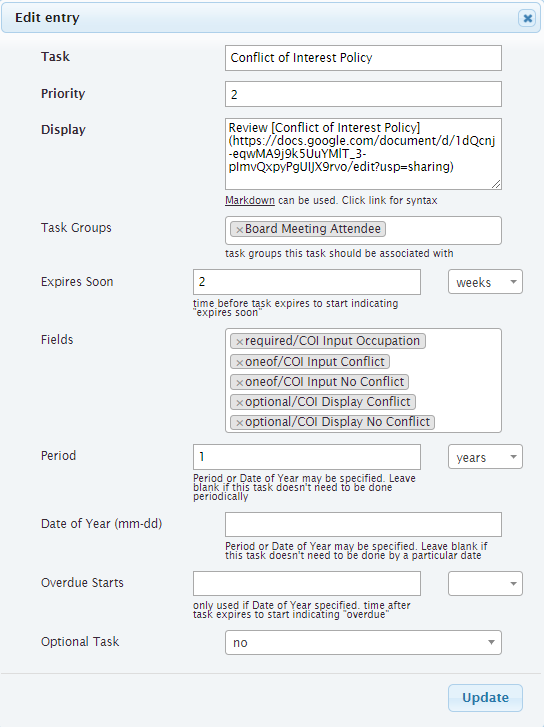
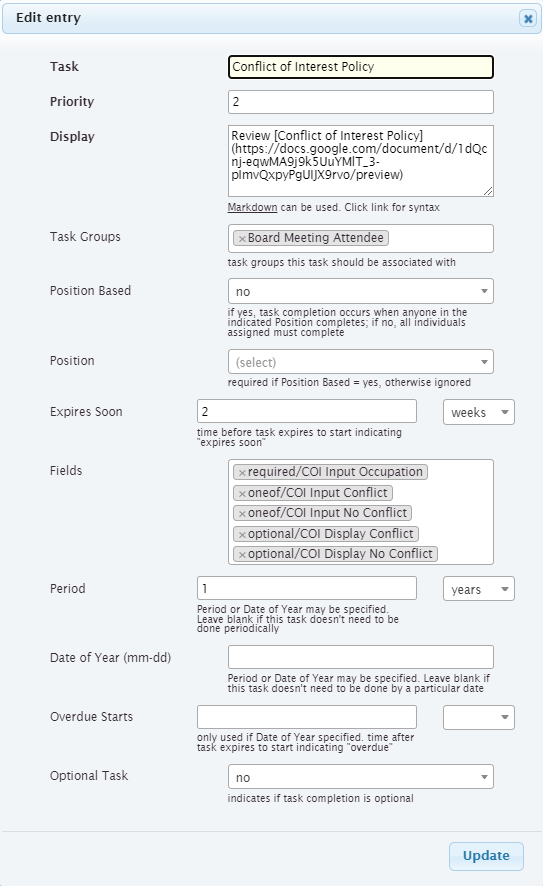
tasks can now be assigned by position (#383)

diff --git a/members/templates/admin/tasks.view.editorform.html b/members/templates/admin/tasks.view.editorform.html
@@ -3,6 +3,8 @@
     <div data-editor-template="priority"></div>
     <div data-editor-template="description"></div>
     <div data-editor-template="taskgroups.id"></div>
+    <div data-editor-template="isbyposition"></div>
+    <div data-editor-template="position.id"></div>
     <div class="row">
         <div style="flex:5;" data-editor-template="expirysoon"></div>
         <div style="flex:1;" data-editor-template="expirysoon_units"></div>

diff --git a/members/views/admin/leadership_tasks_admin.py b/members/views/admin/leadership_tasks_admin.py
@@ -87,6 +87,18 @@ class TaskView(AssociationCrudApi):
             self._fielderrors = [{'name': 'fields.id', 'get_status': '{} fields were found in more than one category'.format(dupnames)}]
             raise ParameterError
 
+        # disable position if not isbyposition
+        if not thistask.isbyposition:
+            thistask.position = None
+            self._responsedata[0]['position']['id'] = None
+            self._responsedata[0]['position']['position'] = None
+        
+        # update any affected taskcompletions
+        # this allows the isbyposition or position to change with the completed tasks updated accordingly
+        taskcompletions = TaskCompletion.query.filter_by(task=thistask).filter(TaskCompletion.position != thistask.position).all()
+        for taskcompletion in taskcompletions:
+            taskcompletion.position = thistask.position
+        
 def task_validate(action, formdata):
     results = []
 
@@ -107,14 +119,18 @@ def task_validate(action, formdata):
         if not formdata['expirysoon']:
             results.append({'name': 'expirysoon', 'status': 'please supply'})
 
+    # for task completion by position, a position needs to be supplied
+    if formdata['isbyposition'] == 'yes' and not formdata['position']['id']:
+        results.append({'name': 'position.id', 'status': 'please supply'})
+        
     return results
 
-task_dbattrs = 'id,interest_id,task,description,priority,expirysoon,expirysoon_units,period,period_units,dateofyear,expirystarts,expirystarts_units,isoptional,taskgroups,fields'.split(',')
-task_formfields = 'rowid,interest_id,task,description,priority,expirysoon,expirysoon_units,period,period_units,dateofyear,expirystarts,expirystarts_units,isoptional,taskgroups,fields'.split(',')
+task_dbattrs = 'id,interest_id,task,description,isbyposition,position,priority,expirysoon,expirysoon_units,period,period_units,dateofyear,expirystarts,expirystarts_units,isoptional,taskgroups,fields'.split(',')
+task_formfields = 'rowid,interest_id,task,description,isbyposition,position,priority,expirysoon,expirysoon_units,period,period_units,dateofyear,expirystarts,expirystarts_units,isoptional,taskgroups,fields'.split(',')
 task_dbmapping = dict(zip(task_dbattrs, task_formfields))
 task_formmapping = dict(zip(task_formfields, task_dbattrs))
 # only take mm-dd portion of date into database
-# TODO: uncommend these when #51 fixed
+# TODO: uncomment these when #51 fixed
 # task_dbmapping['dateofyear'] = lambda formrow: formrow['dateofyear'][-5:] if formrow['dateofyear'] else None
 # task_formmapping['dateofyear'] = lambda dbrow: '{}-{}'.format(date.today().year, dbrow.dateofyear) if dbrow.dateofyear else None
 
@@ -157,8 +173,29 @@ task_view = TaskView(
                              'relationship': {'fieldmodel': TaskGroup, 'labelfield': 'taskgroup',
                                               'formfield': 'taskgroups',
                                               'dbfield': 'taskgroups', 'uselist': True,
+                                              'searchbox': True,
                                               'queryparams': localinterest_query_params,
                                               }}
+                         },
+                        {'data': 'isbyposition', 'name': 'isbyposition', 'label': 'Position Based',
+                         'class': 'TextCenter',
+                         '_treatment': {'boolean': {'formfield': 'isbyposition', 'dbfield': 'isbyposition'}},
+                         'ed': {'def': 'no'},
+                         'fieldInfo': 'if yes, task completion occurs when anyone in the indicated Position completes; if no, all individuals assigned must complete',
+                         },
+                        {'data': 'position', 'name': 'position', 'label': 'Position',
+                         '_treatment': {
+                             'relationship': 
+                                {
+                                    'fieldmodel': Position, 
+                                    'labelfield': 'position', 
+                                    'formfield': 'position',
+                                    'dbfield': 'position', 
+                                    'uselist': False,
+                                    'searchbox': True,
+                                    'queryparams': localinterest_query_params,
+                                }},
+                         'fieldInfo': 'required if Position Based = yes, otherwise ignored',
                          },
                         {'data': 'expirysoon', 'name': 'expirysoon', 'label': 'Expires Soon',
                          'class': 'TextCenter',
@@ -227,6 +264,7 @@ task_view = TaskView(
                          'class': 'TextCenter',
                          '_treatment': {'boolean': {'formfield': 'isoptional', 'dbfield': 'isoptional'}},
                          'ed': {'def': 'no'},
+                         'fieldInfo': 'indicates if task completion is optional',
                          },
                     ],
                     servercolumns = None,  # not server side

diff --git a/members/views/admin/viewhelpers.py b/members/views/admin/viewhelpers.py
@@ -76,8 +76,13 @@ class LocalUserPicker(DteDbRelationship):
 
 
 def get_task_completion(task, user):
+    # if completion is by position and this user is in the task's position, return the latest task completion for this position
     localuser = user2localuser(user)
-    return TaskCompletion.query.filter_by(task=task, user=localuser).order_by(TaskCompletion.update_time.desc()).first()
+    if task.isbyposition:
+        return TaskCompletion.query.filter_by(task=task, position=task.position).order_by(TaskCompletion.update_time.desc()).first()
+    # if by member, return the latest task completion for the indicated user
+    else:
+        return TaskCompletion.query.filter_by(task=task, user=localuser).order_by(TaskCompletion.update_time.desc()).first()
 
 def localuser2user(localuser):
     if type(localuser) == int:
@@ -204,7 +209,6 @@ def _get_status(task, taskcompletion):
             thisstatus = STATUS_DONE
         thisexpires = STATUS_NO_EXPIRATION
 
-
     # task is managed periodically
     elif task.period:
         if not task.period and taskcompletion:
@@ -260,13 +264,23 @@ def get_expires(task, user):
 def create_taskcompletion(task, localuser, localinterest, formdata):
     rightnow = datetime.now()
     taskcompletion = TaskCompletion(
-        user=localuser,
         interest=localinterest,
         completion=rightnow,
         task=task,
         update_time=rightnow,
         updated_by=localuser.id,
     )
+
+    # normal case is task is completed for the individual, so record the individual's completion
+    taskcompletion.user = localuser
+    
+    # if it's by position, record the position's completion
+    # if user doesn't have this position, then skip recording the position as this is for the individual
+    #  >> this is an odd case, not sure if it's needed, actually, but may be some reason for this case
+    # if task.isbyposition and task.position in localuser.positions:
+    if task.isbyposition:
+        taskcompletion.position = task.position
+    
     db.session.add(taskcompletion)
     db.session.flush()
 

diff --git a/members/model.py b/members/model.py
@@ -157,6 +157,9 @@ class Task(Base):
     dateofyear          = Column(String(DOY_LEN))   # mm-dd
     expirystarts        = Column(Integer)          # only used if dateofyear specified
     expirystarts_units  = Column(Enum(*date_unit_all), nullable=True)
+    isbyposition        = Column(Boolean)
+    position_id         = Column(Integer, ForeignKey('position.id'))
+    position            = relationship('Position', back_populates='positiontasks')
     isoptional          = Column(Boolean)
     fields              = relationship('TaskTaskField',
                                        back_populates='task')
@@ -275,6 +278,7 @@ class Position(Base):
     agendaheading_id    = Column(Integer, ForeignKey('agendaheading.id'))
     agendaheading       = relationship('AgendaHeading', backref=backref('positions'))
     userpositions       = relationship('UserPosition', back_populates='position')
+    positiontasks       = relationship('Task', back_populates='position')
     # users               = relationship('LocalUser',
     #                                    secondary=userposition_table,
     #                                    backref=backref('positions'))
@@ -305,6 +309,8 @@ class TaskCompletion(Base):
     interest            = relationship('LocalInterest', backref=backref('taskcompletions'))
     user_id             = Column(Integer, ForeignKey('localuser.id'))
     user                = relationship('LocalUser', backref=backref('taskscompleted'))
+    position_id         = Column(Integer, ForeignKey('position.id'))
+    position            = relationship('Position', backref=backref('taskscompleted'))
     task_id             = Column(Integer, ForeignKey('task.id'))
     task                = relationship('Task', backref=backref('taskcompletions'))
     completion          = Column(DateTime)

diff --git a/migrations/versions/2b0acf03881a_task_completion_by_position_383.py b/migrations/versions/2b0acf03881a_task_completion_by_position_383.py
@@ -1,0 +1,60 @@
+"""task completion by position (#383)
+
+Revision ID: 2b0acf03881a
+Revises: cacdee34a411
+Create Date: 2022-06-07 14:55:51.486478
+
+"""
+from alembic import op
+import sqlalchemy as sa
+
+
+# revision identifiers, used by Alembic.
+revision = '2b0acf03881a'
+down_revision = 'cacdee34a411'
+branch_labels = None
+depends_on = None
+
+
+def upgrade(engine_name):
+    globals()["upgrade_%s" % engine_name]()
+
+
+def downgrade(engine_name):
+    globals()["downgrade_%s" % engine_name]()
+
+
+
+
+
+def upgrade_():
+    # ### commands auto generated by Alembic - please adjust! ###
+    op.add_column('task', sa.Column('isbyposition', sa.Boolean(), nullable=True))
+    op.add_column('task', sa.Column('position_id', sa.Integer(), nullable=True))
+    op.create_foreign_key(None, 'task', 'position', ['position_id'], ['id'])
+    op.add_column('taskcompletion', sa.Column('position_id', sa.Integer(), nullable=True))
+    op.create_foreign_key(None, 'taskcompletion', 'position', ['position_id'], ['id'])
+    # ### end Alembic commands ###
+
+
+def downgrade_():
+    # ### commands auto generated by Alembic - please adjust! ###
+    op.drop_constraint(None, 'taskcompletion', type_='foreignkey')
+    op.drop_column('taskcompletion', 'position_id')
+    op.drop_constraint(None, 'task', type_='foreignkey')
+    op.drop_column('task', 'position_id')
+    op.drop_column('task', 'isbyposition')
+    # ### end Alembic commands ###
+
+
+def upgrade_users():
+    # ### commands auto generated by Alembic - please adjust! ###
+    pass
+    # ### end Alembic commands ###
+
+
+def downgrade_users():
+    # ### commands auto generated by Alembic - please adjust! ###
+    pass
+    # ### end Alembic commands ###
+

diff --git a/members/version.py b/members/version.py
@@ -1,5 +1,5 @@
 # See https://packaging.python.org/guides/distributing-packages-using-setuptools/#semantic-versioning-preferred
-__version__ = '1.3.4.dev1'
+__version__ = '1.4.0.dev1'
 __docversion__ = __version__
 # uncomment for development
 # __docversion__ = 'latest'

diff --git a/docs/leadership-task-admin-guide.rst b/docs/leadership-task-admin-guide.rst
@@ -83,6 +83,23 @@ Task Configuration Guide
 
 The :ref:`Tasks view` is used to configure :term:`task` behavior.
 
+The :term:`task` display :ref:`Task Checklist view` is controlled by the attributes
+
+* **Priority** - controls the order of task display, all other things being equal
+* **Task Groups** - :term:`Task Groups <task group>` form a group of tasks which can be assigned to :term:`positions <position>` via :ref:`Positions view`
+
+:term:`Task <task>` :term:`status` can be for individual :term:`members <member>` or by :term:`position`, as controlled by the attributes
+
+* **Position Based** - if *yes*, when anyone in **Position** marks the :term:`task` complete, it is displayed as complete for all :term:`members <member>` 
+  in **Position**; if *no* this task must be completed by each :term:`member` in any :term:`position` assigned this :term:`task` via **Task Groups**
+* **Position** - if **Position Based** = *yes*, identifies the :term:`position` for which all :term:`members <member>` will see the :term:`task` as completed
+  when any :term:`member` marks it completed
+
+  .. warning::
+  
+    for this to work properly, **Task Groups** should contain a single :term:`task group`, and that
+    :term:`task group` should only be assigned to the indicated **Position**
+
 :term:`Task <task>` :term:`status` and expiration is controlled using the attributes
 
 * **Period** - how long after the :term:`task's <task>` completion date when it become *overdue*
@@ -119,6 +136,7 @@ To configure a :term:`task` to be optional, set
 * leave **Period**, **Date of Year**, **Expires Soon**, and **Overdue Starts** unset
 
 
+.. _Task Groups:
 
 Task Groups
 =================

diff --git a/docs/leadership-task-admin-reference.rst b/docs/leadership-task-admin-reference.rst
@@ -99,6 +99,14 @@ See the :ref:`Task Configuration Guide` for details on how :term:`tasks <task>` 
         select the :term:`task groups <task group>` the :term:`task` is in. This can also be defined
         in the :ref:`Task Groups view`
 
+    :Position Based:
+        set to *yes* if you want the task to be *completed* for everyone when anyone in **Position** marks the :term:`task` complete;
+        set to *no* if this task must be completed by each :term:`member` in any :term:`position` assigned this :term:`task`
+
+    :Position:
+        if **Position Based** = *yes*, identifies the :term:`position` for which all :term:`members <member>` will see the :term:`task` as completed
+        when any :term:`member` marks it completed
+
     :Expires Soon:
         this is the time period before which the :term:`task` becomes *overdue* for :term:`tasks <task>`
         which have **Optional Task** set to *no* (i.e., required tasks)
